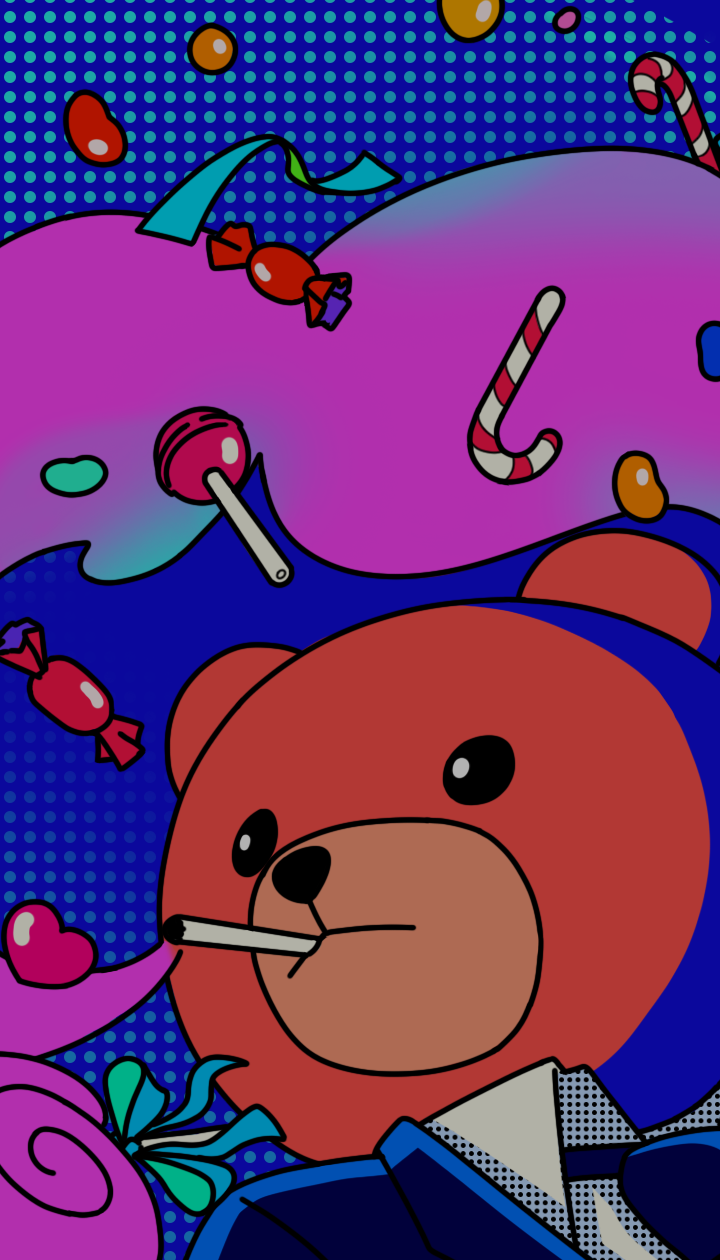
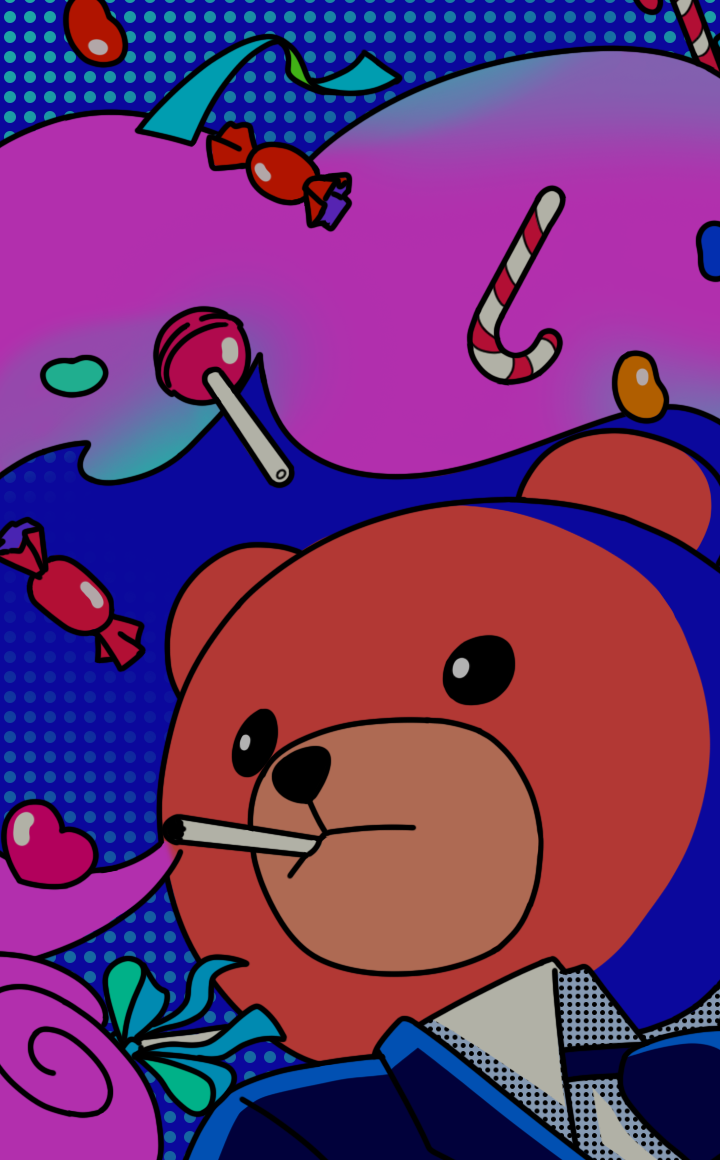
2021.12.24

diff --git a/assets/css/sub.min.css b/assets/css/sub.min.css
@@ -1,2 +1,2 @@
-.inner{max-width:1160px;margin:0 auto;padding:0 110px}.container{display:-webkit-box;display:-ms-flexbox;display:flex;-webkit-box-pack:justify;-ms-flex-pack:justify;justify-content:space-between;-webkit-box-align:center;-ms-flex-align:center;align-items:center;padding:0 125px}.mob-br{display:none}@media screen and (max-width: 1200px){.inner{padding:0 50px}}@media screen and (max-width: 900px){.container{padding:0 100px}}@media screen and (max-width: 720px){.inner{padding:0 40px}.container{-webkit-box-orient:vertical;-webkit-box-direction:normal;-ms-flex-direction:column;flex-direction:column;padding:0}}@media screen and (max-width: 570px){.inner{padding:0 25px}.mob-br{display:block}}@-webkit-keyframes loading{0%{width:0}70%{width:100%;opacity:1}90%{opacity:0;width:100%}100%{opacity:0;width:0}}@keyframes loading{0%{width:0}70%{width:100%;opacity:1}90%{opacity:0;width:100%}100%{opacity:0;width:0}}@-webkit-keyframes loading-motion{0%{height:57px}33%{height:58px}66%{height:60px}100%{height:58px}}@keyframes loading-motion{0%{height:57px}33%{height:58px}66%{height:60px}100%{height:58px}}@-webkit-keyframes loading-move{0%{left:0}70%{left:78%}100%{left:78%}}@keyframes loading-move{0%{left:0}70%{left:78%}100%{left:78%}}@-webkit-keyframes balloon{from{-webkit-transform:translateY(5px);transform:translateY(5px)}to{-webkit-transform:translateY(-5px);transform:translateY(-5px)}}@keyframes balloon{from{-webkit-transform:translateY(5px);transform:translateY(5px)}to{-webkit-transform:translateY(-5px);transform:translateY(-5px)}}@-webkit-keyframes scale-in-center{0%{-webkit-transform:scale(0);transform:scale(0);opacity:1}100%{-webkit-transform:scale(1);transform:scale(1);opacity:1}}@keyframes scale-in-center{0%{-webkit-transform:scale(0);transform:scale(0);opacity:1}100%{-webkit-transform:scale(1);transform:scale(1);opacity:1}}@-webkit-keyframes skill{from{width:0}to{width:graph}}@keyframes skill{from{width:0}to{width:graph}}@-webkit-keyframes quick-1{0%{right:-150px}100%{right:60px}}@keyframes quick-1{0%{right:-150px}100%{right:60px}}@-webkit-keyframes quick-mob-1{0%{bottom:-150px}100%{bottom:50px}}@keyframes quick-mob-1{0%{bottom:-150px}100%{bottom:50px}}@-webkit-keyframes quick-mob-2{0%{bottom:50px}100%{bottom:-150px}}@keyframes quick-mob-2{0%{bottom:50px}100%{bottom:-150px}}@-webkit-keyframes tracking-in-contract{0%{letter-spacing:normal}50%{letter-spacing:0.1em}100%{letter-spacing:normal}}@keyframes tracking-in-contract{0%{letter-spacing:normal}50%{letter-spacing:0.1em}100%{letter-spacing:normal}}@-webkit-keyframes scroll-down{from{bottom:35px}to{bottom:25px}}@keyframes scroll-down{from{bottom:35px}to{bottom:25px}}.loading-box{position:fixed;top:0;right:0;bottom:0;left:0;z-index:5000;background-color:#3f25b2}.loading-box .loading{position:relative;width:250px;height:30px;top:calc(50% - 10px);left:calc(50% - 125px);background-color:rgba(37,236,136,0.2)}.loading-box .loading::before{content:"";position:absolute;background-color:#25ec88;top:0;left:0;height:30px;width:0;z-index:0;opacity:1;-webkit-transform-origin:100% 0;transform-origin:100% 0;-webkit-animation:loading 5s ease-in-out infinite;animation:loading 5s ease-in-out infinite}.loading-box .loading::after{content:"LOADING ...";color:#25ec88;font-weight:200;font-size:24px;position:absolute;width:100%;height:30px;line-height:30px;top:0;left:0;text-align:center}.loading-box .loading .img-area{position:absolute;bottom:110%;left:0;-webkit-animation:loading-move 5s ease-in-out infinite;animation:loading-move 5s ease-in-out infinite}.loading-box .loading .img-area img{width:60px;height:57px;-webkit-animation:loading-motion 1s ease-in-out infinite;animation:loading-motion 1s ease-in-out infinite}.hd{background-color:#1b1b1b;position:fixed;top:0;right:0;left:0;z-index:1000}.hd .hamburger{display:none}.hd .logo{line-height:80px}.hd .logo img{width:100%;display:block}.hd .gnb{display:-webkit-box;display:-ms-flexbox;display:flex}.hd .gnb a{display:inline-block;color:#fff;font-size:18px;font-weight:400}.hd .gnb .dep1{line-height:80px;margin-left:57px}.hd .gnb .dep1:hover>a{text-decoration:underline}.hd .gnb .dep1:hover .dep2{height:150px;padding:8px 0}.hd .gnb .dep1-arrow{position:relative}.hd .gnb .dep1-arrow>a::after{content:'▼';color:#fff;font-size:12px;margin-left:9px}.hd .gnb .dep1 .dep2{height:0px;overflow:hidden;position:absolute;background-color:#3b21b0;top:100%;left:50%;-webkit-transform:translateX(-50%);transform:translateX(-50%);width:208px;text-align:center;line-height:45px;-webkit-transition:all 0.3s;transition:all 0.3s}.hd .gnb .dep1 .dep2 a{display:block;font-size:13px;-webkit-transition:all 0.3s ease;transition:all 0.3s ease}.hd .gnb .dep1 .dep2 a:hover{background-color:#fff;color:#3b21b0}@media screen and (max-width: 900px){.hd .logo{margin:0 auto}.hd .logo a img{width:100%;padding:21px 0;line-height:80px}.hd .gnb{background-color:rgba(59,33,176,0.9);position:fixed;top:-100%;right:0;left:0;display:block;text-align:center;padding-top:100px;-webkit-transition:all 0.9s;transition:all 0.9s;opacity:0}.hd .gnb a{font-size:36px;font-weight:500}.hd .gnb .dep1{line-height:100px;margin-left:0}.hd .gnb .dep1:hover .dep2{height:0;padding:0}.hd .gnb .dep1 .dep2{position:relative;background-color:transparent;width:auto;line-height:100px}.hd .gnb .dep1 .dep2 a{font-size:30px}.hd .gnb .dep1 .dep2 a:hover{background:transparent;color:#fff;text-decoration:underline}.hd .gnb .dep1 .dep2.active{height:316px}.hd .hamburger{display:block;position:absolute;top:50%;right:3%;z-index:3;-webkit-transform:translateY(-50%);transform:translateY(-50%);width:45px;height:45px;cursor:pointer}.hd .hamburger li{position:absolute;left:5%;-webkit-transform:translateY(-50%);transform:translateY(-50%);width:90%;height:7px;background:#fff;border-radius:20px;-webkit-transition:.9s;transition:.9s;opacity:1}.hd .hamburger .line1{top:20%}.hd .hamburger .line2,.hd .hamburger .line3{top:50%}.hd .hamburger .line4{top:80%}.hd .hamburger.active .line1{top:-20%;opacity:0}.hd .hamburger.active .line2{-webkit-transform:translateY(-50%) rotate(45deg);transform:translateY(-50%) rotate(45deg)}.hd .hamburger.active .line3{-webkit-transform:translateY(-50%) rotate(-45deg);transform:translateY(-50%) rotate(-45deg)}.hd .hamburger.active .line4{top:120%;opacity:0}.hd .hamburger.active ~ .gnb{top:0;bottom:0;opacity:1}}.kv{position:relative;background-repeat:no-repeat;background-position:center top;background-size:contain;width:100%;padding-top:45.5%;margin-top:80px}.kv .tit{position:absolute;font-family:'ChunkFive-Regular';font-size:100px;color:#fff;bottom:110px;left:109px}.kv .scroll-down{position:absolute;bottom:30px;left:119px;-webkit-animation:scroll-down 0.7s ease-in infinite alternate;animation:scroll-down 0.7s ease-in infinite alternate}.web .kv{background-image:url(../images/kv-web.png)}.web .content{margin:100px 0}.web .content [class^="cont-"]{background-color:#1b1b1b;display:-webkit-box;display:-ms-flexbox;display:flex;-webkit-box-align:end;-ms-flex-align:end;align-items:flex-end;padding:22px;color:#fff;font-family:'KOTRA_GOTHIC'}.web .content [class^="cont-"] .img-area{width:50%}.web .content [class^="cont-"] .img-area img{display:block;width:100%}.web .content [class^="cont-"] .txt-area .tit{font-size:18px}.web .content [class^="cont-"] .txt-area .sub-tit{font-size:24px}.web .content [class^="cont-"] .txt-area .desc{font-size:18px;margin-top:24px}.web .content [class^="cont-"] .btn{display:inline-block;background-color:#25ec88;color:black;width:165px;line-height:51px;font-family:'KOTRA_GOTHIC';font-size:18px;text-align:center;margin-top:24px}.web .content .cont-right{margin:100px auto;margin-left:20%;-webkit-box-pack:left;-ms-flex-pack:left;justify-content:left}.web .content .cont-right .txt-area{margin-left:22px}.web .content .cont-left{margin:100px auto;margin-right:20%;-webkit-box-pack:right;-ms-flex-pack:right;justify-content:right}.web .content .cont-left .txt-area{text-align:right;margin-right:22px}.character .kv{background-image:url(../images/kv-character.png)}.character .content{margin:100px 0 76px}.character .content .inner{padding:0}.character .content .content-list{display:-webkit-box;display:-ms-flexbox;display:flex;-ms-flex-wrap:wrap;flex-wrap:wrap;margin:0 -12px}.character .content .content-list .list-item{-webkit-box-flex:0;-ms-flex:0 1 calc((100% / 3) - 24px);flex:0 1 calc((100% / 3) - 24px);text-align:center;margin:0 12px 24px}.character .content .content-list .list-item .img-area{position:relative;overflow:hidden}.character .content .content-list .list-item .img-area img{display:block;width:100%;-webkit-transition:all 1s;transition:all 1s}.character .content .content-list .list-item .img-area::after{position:absolute;content:"";display:inline-block;background-color:#fff;top:0;left:0;width:100%;height:0;border-bottom-left-radius:50%;border-bottom-right-radius:50%;opacity:0;-webkit-transition:all 1s;transition:all 1s}.character .content .content-list .list-item .txt-area{background-color:#1b1b1b;color:#fff;font-family:'KOTRA_GOTHIC'}.character .content .content-list .list-item .txt-area .tit{font-size:24px;padding-top:15px}.character .content .content-list .list-item .txt-area .desc{font-size:18px;padding-bottom:15px}.character .content .content-list .list-item:hover .img-area img{-webkit-transform:scale(1.1);transform:scale(1.1)}.character .content .content-list .list-item:hover .img-area::after{height:200%;opacity:.3}.graphic .kv{background-image:url(../images/kv-graphic.png)}.graphic .content{text-align:center;margin:100px 0 76px}.graphic .content .inner{padding:0}.graphic .content .button{margin-bottom:24px}.graphic .content .button .btn{font-family:'ChunkFive-Regular';font-size:24px;margin:0 12px;-webkit-transition:all 0.3s;transition:all 0.3s}.graphic .content .button .btn:hover{-webkit-transform:scale(1.1);transform:scale(1.1)}.graphic .content .portfolio-graphic{display:-webkit-box;display:-ms-flexbox;display:flex;-ms-flex-wrap:wrap;flex-wrap:wrap;margin:0 -12px}.graphic .content .portfolio-graphic .mix{-webkit-box-flex:0;-ms-flex:0 1 calc((100% / 3) - 24px);flex:0 1 calc((100% / 3) - 24px);margin:0 12px 24px;overflow:hidden}.graphic .content .portfolio-graphic .mix:hover img{-webkit-transform:scale(1.1);transform:scale(1.1)}.graphic .content .portfolio-graphic .mix img{display:block;width:100%;-webkit-transition:all 1s;transition:all 1s}.mfp-arrow:after{border-right:none;border-left:none;width:20px;background-image:url(../images/mfp-arrow.png);background-size:cover;background-repeat:no-repeat;background-position:center;padding-top:10%}.mfp-arrow:before{border-right:none;border-left:none}.mfp-arrow-left:after{-webkit-transform:rotate(180deg);transform:rotate(180deg)}@media screen and (max-width: 1200px){.kv .tit{font-size:80px;left:6.667vw}.kv .scroll-down{left:6.667vw}.web .content .cont-right{margin-left:5%}.web .content .cont-left{margin-right:5%}.character .content .content-list{margin:0}.character .content .content-list .list-item{-ms-flex-preferred-size:calc((100% / 2) - 24px);flex-basis:calc((100% / 2) - 24px)}.graphic .content .portfolio-graphic{margin:0}.graphic .content .portfolio-graphic .mix{-ms-flex-preferred-size:calc((100% /2) - 24px);flex-basis:calc((100% /2) - 24px)}}@media screen and (max-width: 900px){.kv .tit{font-size:8vw;bottom:100px}.kv .scroll-down img{width:90%}.web .content [class^="cont-"]{-webkit-box-orient:vertical;-webkit-box-direction:normal;-ms-flex-direction:column;flex-direction:column}.web .content [class^="cont-"] .txt-area{margin-top:22px}.web .content [class^="cont-"] .img-area{width:100%}.web .content .cont-right{-webkit-box-align:start;-ms-flex-align:start;align-items:flex-start;margin-left:10%}.web .content .cont-right .txt-area{margin-left:0}.web .content .cont-left{margin-right:10%;-webkit-box-orient:vertical;-webkit-box-direction:reverse;-ms-flex-direction:column-reverse;flex-direction:column-reverse}.web .content .cont-left .txt-area{margin-right:0}.character .content .content-list .list-item{-ms-flex-preferred-size:calc(100% - 24px);flex-basis:calc(100% - 24px)}.graphic .content .portfolio-graphic .mix{-ms-flex-preferred-size:calc(100% - 24px);flex-basis:calc(100% - 24px)}}@media screen and (max-width: 720px){.kv{background-size:cover;padding-top:175%}.kv .tit{font-size:9.333vw}.kv .scroll-down img{width:80%}.web .kv{background-image:url(../images/kv-web-mob.png)}.character .kv{background-image:url(../images/kv-character-mob.png)}.graphic .kv{background-image:url(../images/kv-graphic-mob.png)}}.ft{background-color:#1b1b1b;font-size:14px;color:#fff;line-height:80px}@media screen and (max-width: 720px){.ft{line-height:40px;padding:12px 0}}.quick [class^='quick-']{background-repeat:no-repeat;background-position:center;background-size:cover;position:fixed;width:55px;height:52px}.quick [class^='quick-'] .img-box{display:none;position:relative}.quick [class^='quick-'] .img-box img{position:absolute;top:-35px;left:50%;-webkit-transform:translateX(-50%);transform:translateX(-50%)}.quick [class^='quick-']:hover .img-box{display:block}.quick .quick-green{background-image:url(../images/quick-green.png);bottom:300px;-webkit-animation:quick-1 0.8s cubic-bezier(0, -0.04, 0.41, 0.95) both;animation:quick-1 0.8s cubic-bezier(0, -0.04, 0.41, 0.95) both}.quick .quick-green .img-box img{width:59px}.quick .quick-green:hover{background-image:url(../images/quick-green-hover.png)}.quick .quick-yellow{background-image:url(../images/quick-yellow.png);bottom:200px;-webkit-animation:quick-1 0.8s cubic-bezier(0, -0.04, 0.41, 0.95) 0.2s both;animation:quick-1 0.8s cubic-bezier(0, -0.04, 0.41, 0.95) 0.2s both}.quick .quick-yellow .img-box img{width:121px}.quick .quick-yellow:hover{background-image:url(../images/quick-yellow-hover.png)}.quick .quick-pink{background-image:url(../images/quick-pink.png);bottom:100px;-webkit-animation:quick-1 0.8s cubic-bezier(0, -0.04, 0.41, 0.95) 0.4s both;animation:quick-1 0.8s cubic-bezier(0, -0.04, 0.41, 0.95) 0.4s both}.quick .quick-pink .img-box img{width:100px}.quick .quick-pink:hover{background-image:url(../images/quick-pink-hover.png)}@media screen and (max-width: 720px){.quick [class^='quick-']{bottom:50px;left:50%;-webkit-transform:translateX(-50%);transform:translateX(-50%)}.quick .quick-green{-webkit-transform:translateX(-250%);transform:translateX(-250%);-webkit-animation:quick-mob-1 0.6s cubic-bezier(0, -0.04, 0.41, 0.95) both;animation:quick-mob-1 0.6s cubic-bezier(0, -0.04, 0.41, 0.95) both;left:47%}.quick .quick-yellow{-webkit-animation:quick-mob-1 0.6s cubic-bezier(0, -0.04, 0.41, 0.95) 0.2s both;animation:quick-mob-1 0.6s cubic-bezier(0, -0.04, 0.41, 0.95) 0.2s both}.quick .quick-pink{-webkit-transform:translateX(150%);transform:translateX(150%);-webkit-animation:quick-mob-1 0.6s cubic-bezier(0, -0.04, 0.41, 0.95) 0.4s both;animation:quick-mob-1 0.6s cubic-bezier(0, -0.04, 0.41, 0.95) 0.4s both;left:53%}.quick.hide .quick-green{-webkit-animation:quick-mob-2 0.6s ease-in-out 0.4s both;animation:quick-mob-2 0.6s ease-in-out 0.4s both}.quick.hide .quick-yellow{-webkit-animation:quick-mob-2 0.6s ease-in-out 0.2s both;animation:quick-mob-2 0.6s ease-in-out 0.2s both}.quick.hide .quick-pink{-webkit-animation:quick-mob-2 0.6s ease-in-out both;animation:quick-mob-2 0.6s ease-in-out both}}
+.inner{max-width:1160px;margin:0 auto;padding:0 110px}.container{display:-webkit-box;display:-ms-flexbox;display:flex;-webkit-box-pack:justify;-ms-flex-pack:justify;justify-content:space-between;-webkit-box-align:center;-ms-flex-align:center;align-items:center;padding:0 125px}.mob-br{display:none}@media screen and (max-width: 1200px){.inner{padding:0 50px}}@media screen and (max-width: 900px){.container{padding:0 100px}}@media screen and (max-width: 720px){.inner{padding:0 40px}.container{-webkit-box-orient:vertical;-webkit-box-direction:normal;-ms-flex-direction:column;flex-direction:column;padding:0}}@media screen and (max-width: 570px){.inner{padding:0 25px}.mob-br{display:block}}@-webkit-keyframes loading{0%{width:0}70%{width:100%;opacity:1}90%{opacity:0;width:100%}100%{opacity:0;width:0}}@keyframes loading{0%{width:0}70%{width:100%;opacity:1}90%{opacity:0;width:100%}100%{opacity:0;width:0}}@-webkit-keyframes loading-motion{0%{height:57px}33%{height:58px}66%{height:60px}100%{height:58px}}@keyframes loading-motion{0%{height:57px}33%{height:58px}66%{height:60px}100%{height:58px}}@-webkit-keyframes loading-move{0%{left:0}70%{left:78%}100%{left:78%}}@keyframes loading-move{0%{left:0}70%{left:78%}100%{left:78%}}@-webkit-keyframes balloon{from{-webkit-transform:translateY(5px);transform:translateY(5px)}to{-webkit-transform:translateY(-5px);transform:translateY(-5px)}}@keyframes balloon{from{-webkit-transform:translateY(5px);transform:translateY(5px)}to{-webkit-transform:translateY(-5px);transform:translateY(-5px)}}@-webkit-keyframes scale-in-center{0%{-webkit-transform:scale(0);transform:scale(0);opacity:1}100%{-webkit-transform:scale(1);transform:scale(1);opacity:1}}@keyframes scale-in-center{0%{-webkit-transform:scale(0);transform:scale(0);opacity:1}100%{-webkit-transform:scale(1);transform:scale(1);opacity:1}}@-webkit-keyframes skill{from{width:0}to{width:graph}}@keyframes skill{from{width:0}to{width:graph}}@-webkit-keyframes quick-1{0%{right:-150px}100%{right:60px}}@keyframes quick-1{0%{right:-150px}100%{right:60px}}@-webkit-keyframes quick-mob-1{0%{bottom:-150px}100%{bottom:50px}}@keyframes quick-mob-1{0%{bottom:-150px}100%{bottom:50px}}@-webkit-keyframes quick-mob-2{0%{bottom:50px}100%{bottom:-150px}}@keyframes quick-mob-2{0%{bottom:50px}100%{bottom:-150px}}@-webkit-keyframes tracking-in-contract{0%{letter-spacing:normal}50%{letter-spacing:0.1em}100%{letter-spacing:normal}}@keyframes tracking-in-contract{0%{letter-spacing:normal}50%{letter-spacing:0.1em}100%{letter-spacing:normal}}@-webkit-keyframes scroll-down{from{bottom:35px}to{bottom:25px}}@keyframes scroll-down{from{bottom:35px}to{bottom:25px}}.loading-box{position:fixed;top:0;right:0;bottom:0;left:0;z-index:5000;background-color:#3f25b2}.loading-box .loading{position:relative;width:250px;height:30px;top:calc(50% - 10px);left:calc(50% - 125px);background-color:rgba(37,236,136,0.2)}.loading-box .loading::before{content:"";position:absolute;background-color:#25ec88;top:0;left:0;height:30px;width:0;z-index:0;opacity:1;-webkit-transform-origin:100% 0;transform-origin:100% 0;-webkit-animation:loading 5s ease-in-out infinite;animation:loading 5s ease-in-out infinite}.loading-box .loading::after{content:"LOADING ...";color:#25ec88;font-weight:200;font-size:24px;position:absolute;width:100%;height:30px;line-height:30px;top:0;left:0;text-align:center}.loading-box .loading .img-area{position:absolute;bottom:110%;left:0;-webkit-animation:loading-move 5s ease-in-out infinite;animation:loading-move 5s ease-in-out infinite}.loading-box .loading .img-area img{width:60px;height:57px;-webkit-animation:loading-motion 1s ease-in-out infinite;animation:loading-motion 1s ease-in-out infinite}.hd{background-color:#1b1b1b;position:fixed;top:0;right:0;left:0;z-index:1000}.hd .hamburger{display:none}.hd .logo{line-height:80px}.hd .logo img{width:100%;display:block}.hd .gnb{display:-webkit-box;display:-ms-flexbox;display:flex}.hd .gnb a{display:inline-block;color:#fff;font-size:18px;font-weight:400}.hd .gnb .dep1{line-height:80px;margin-left:57px}.hd .gnb .dep1:hover>a{text-decoration:underline}.hd .gnb .dep1:hover .dep2{height:150px;padding:8px 0}.hd .gnb .dep1-arrow{position:relative}.hd .gnb .dep1-arrow>a::after{content:'▼';color:#fff;font-size:12px;margin-left:9px}.hd .gnb .dep1 .dep2{height:0px;overflow:hidden;position:absolute;background-color:#3b21b0;top:100%;left:50%;-webkit-transform:translateX(-50%);transform:translateX(-50%);width:208px;text-align:center;line-height:45px;-webkit-transition:all 0.3s;transition:all 0.3s}.hd .gnb .dep1 .dep2 a{display:block;font-size:13px;-webkit-transition:all 0.3s ease;transition:all 0.3s ease}.hd .gnb .dep1 .dep2 a:hover{background-color:#fff;color:#3b21b0}@media screen and (max-width: 900px){.hd .logo{margin:0 auto}.hd .logo a img{width:100%;padding:21px 0;line-height:80px}.hd .gnb{background-color:rgba(59,33,176,0.9);position:fixed;top:-100%;right:0;left:0;display:block;text-align:center;padding-top:100px;-webkit-transition:all 0.9s;transition:all 0.9s;opacity:0}.hd .gnb a{font-size:36px;font-weight:500}.hd .gnb .dep1{line-height:100px;margin-left:0}.hd .gnb .dep1:hover .dep2{height:0;padding:0}.hd .gnb .dep1 .dep2{position:relative;background-color:transparent;width:auto;line-height:100px}.hd .gnb .dep1 .dep2 a{font-size:30px}.hd .gnb .dep1 .dep2 a:hover{background:transparent;color:#fff;text-decoration:underline}.hd .gnb .dep1 .dep2.active{height:316px}.hd .hamburger{display:block;position:absolute;top:50%;right:3%;z-index:3;-webkit-transform:translateY(-50%);transform:translateY(-50%);width:45px;height:45px;cursor:pointer}.hd .hamburger li{position:absolute;left:5%;-webkit-transform:translateY(-50%);transform:translateY(-50%);width:90%;height:7px;background:#fff;border-radius:20px;-webkit-transition:.9s;transition:.9s;opacity:1}.hd .hamburger .line1{top:20%}.hd .hamburger .line2,.hd .hamburger .line3{top:50%}.hd .hamburger .line4{top:80%}.hd .hamburger.active .line1{top:-20%;opacity:0}.hd .hamburger.active .line2{-webkit-transform:translateY(-50%) rotate(45deg);transform:translateY(-50%) rotate(45deg)}.hd .hamburger.active .line3{-webkit-transform:translateY(-50%) rotate(-45deg);transform:translateY(-50%) rotate(-45deg)}.hd .hamburger.active .line4{top:120%;opacity:0}.hd .hamburger.active ~ .gnb{top:0;bottom:0;opacity:1}}.kv{position:relative;background-repeat:no-repeat;background-position:center top;background-size:contain;width:100%;padding-top:45.5%;margin-top:80px}.kv .tit{position:absolute;font-family:'ChunkFive-Regular';font-size:100px;color:#fff;bottom:110px;left:109px}.kv .scroll-down{position:absolute;bottom:30px;left:119px;-webkit-animation:scroll-down 0.7s ease-in infinite alternate;animation:scroll-down 0.7s ease-in infinite alternate}.web .kv{background-image:url(../images/kv-web.png)}.web .content{margin:100px 0}.web .content [class^="cont-"]{background-color:#1b1b1b;display:-webkit-box;display:-ms-flexbox;display:flex;-webkit-box-align:end;-ms-flex-align:end;align-items:flex-end;padding:22px;color:#fff;font-family:'KOTRA_GOTHIC'}.web .content [class^="cont-"] .img-area{width:50%}.web .content [class^="cont-"] .img-area img{display:block;width:100%}.web .content [class^="cont-"] .txt-area .tit{font-size:18px}.web .content [class^="cont-"] .txt-area .sub-tit{font-size:24px}.web .content [class^="cont-"] .txt-area .desc{font-size:18px;margin-top:24px}.web .content [class^="cont-"] .btn{display:inline-block;background-color:#25ec88;color:black;width:165px;line-height:51px;font-family:'KOTRA_GOTHIC';font-size:18px;text-align:center;margin-top:24px}.web .content .cont-right{margin:100px auto;margin-left:20%;-webkit-box-pack:left;-ms-flex-pack:left;justify-content:left}.web .content .cont-right .txt-area{margin-left:22px}.web .content .cont-left{margin:100px auto;margin-right:20%;-webkit-box-pack:right;-ms-flex-pack:right;justify-content:right}.web .content .cont-left .txt-area{text-align:right;margin-right:22px}.character .kv{background-image:url(../images/kv-character.png)}.character .content{margin:100px 0 76px}.character .content .inner{padding:0}.character .content .content-list{display:-webkit-box;display:-ms-flexbox;display:flex;-ms-flex-wrap:wrap;flex-wrap:wrap;margin:0 -12px}.character .content .content-list .list-item{-webkit-box-flex:0;-ms-flex:0 1 calc((100% / 3) - 24px);flex:0 1 calc((100% / 3) - 24px);text-align:center;margin:0 12px 24px}.character .content .content-list .list-item .img-area{position:relative;overflow:hidden}.character .content .content-list .list-item .img-area img{display:block;width:100%;-webkit-transition:all 1s;transition:all 1s}.character .content .content-list .list-item .img-area::after{position:absolute;content:"";display:inline-block;background-color:#fff;top:0;left:0;width:100%;height:0;border-bottom-left-radius:50%;border-bottom-right-radius:50%;opacity:0;-webkit-transition:all 1s;transition:all 1s}.character .content .content-list .list-item .txt-area{background-color:#1b1b1b;color:#fff;font-family:'KOTRA_GOTHIC'}.character .content .content-list .list-item .txt-area .tit{font-size:24px;padding-top:15px}.character .content .content-list .list-item .txt-area .desc{font-size:18px;padding-bottom:15px}.character .content .content-list .list-item:hover .img-area img{-webkit-transform:scale(1.1);transform:scale(1.1)}.character .content .content-list .list-item:hover .img-area::after{height:200%;opacity:.3}.graphic .kv{background-image:url(../images/kv-graphic.png)}.graphic .content{text-align:center;margin:100px 0 76px}.graphic .content .inner{padding:0}.graphic .content .button{margin-bottom:24px}.graphic .content .button .btn{font-family:'ChunkFive-Regular';font-size:24px;margin:0 12px;-webkit-transition:all 0.3s;transition:all 0.3s}.graphic .content .button .btn:hover{-webkit-transform:scale(1.1);transform:scale(1.1)}.graphic .content .portfolio-graphic{display:-webkit-box;display:-ms-flexbox;display:flex;-ms-flex-wrap:wrap;flex-wrap:wrap;margin:0 -12px}.graphic .content .portfolio-graphic .mix{-webkit-box-flex:0;-ms-flex:0 1 calc((100% / 3) - 24px);flex:0 1 calc((100% / 3) - 24px);margin:0 12px 24px;overflow:hidden}.graphic .content .portfolio-graphic .mix:hover img{-webkit-transform:scale(1.1);transform:scale(1.1)}.graphic .content .portfolio-graphic .mix img{display:block;width:100%;-webkit-transition:all 1s;transition:all 1s}.mfp-arrow:after{border-right:none;border-left:none;width:20px;background-image:url(../images/mfp-arrow.png);background-size:cover;background-repeat:no-repeat;background-position:center;padding-top:10%}.mfp-arrow:before{border-right:none;border-left:none}.mfp-arrow-left:after{-webkit-transform:rotate(180deg);transform:rotate(180deg)}@media screen and (max-width: 1200px){.kv .tit{font-size:80px;left:6.667vw}.kv .scroll-down{left:6.667vw}.web .content .cont-right{margin-left:5%}.web .content .cont-left{margin-right:5%}.character .content .content-list{margin:0}.character .content .content-list .list-item{-ms-flex-preferred-size:calc((100% / 2) - 24px);flex-basis:calc((100% / 2) - 24px)}.graphic .content .portfolio-graphic{margin:0}.graphic .content .portfolio-graphic .mix{-ms-flex-preferred-size:calc((100% /2) - 24px);flex-basis:calc((100% /2) - 24px)}}@media screen and (max-width: 900px){.kv .tit{font-size:8vw;bottom:100px}.kv .scroll-down img{width:90%}.web .content [class^="cont-"]{-webkit-box-orient:vertical;-webkit-box-direction:normal;-ms-flex-direction:column;flex-direction:column}.web .content [class^="cont-"] .txt-area{margin-top:22px}.web .content [class^="cont-"] .img-area{width:100%}.web .content .cont-right{-webkit-box-align:start;-ms-flex-align:start;align-items:flex-start;margin-left:10%}.web .content .cont-right .txt-area{margin-left:0}.web .content .cont-left{margin-right:10%;-webkit-box-orient:vertical;-webkit-box-direction:reverse;-ms-flex-direction:column-reverse;flex-direction:column-reverse}.web .content .cont-left .txt-area{margin-right:0}.character .content .content-list .list-item{-ms-flex-preferred-size:calc(100% - 24px);flex-basis:calc(100% - 24px)}.graphic .content .portfolio-graphic .mix{-ms-flex-preferred-size:calc(100% - 24px);flex-basis:calc(100% - 24px)}}@media screen and (max-width: 720px){.kv{background-size:cover;padding-top:161.1%}.kv .tit{font-size:9.333vw}.kv .scroll-down img{width:80%}.web .kv{background-image:url(../images/kv-web-mob.png)}.character .kv{background-image:url(../images/kv-character-mob.png)}.graphic .kv{background-image:url(../images/kv-graphic-mob.png)}}.ft{background-color:#1b1b1b;font-size:14px;color:#fff;line-height:80px}@media screen and (max-width: 720px){.ft{line-height:40px;padding:12px 0}}.quick [class^='quick-']{background-repeat:no-repeat;background-position:center;background-size:cover;position:fixed;width:55px;height:52px}.quick [class^='quick-'] .img-box{display:none;position:relative}.quick [class^='quick-'] .img-box img{position:absolute;top:-35px;left:50%;-webkit-transform:translateX(-50%);transform:translateX(-50%)}.quick [class^='quick-']:hover .img-box{display:block}.quick .quick-green{background-image:url(../images/quick-green.png);bottom:300px;-webkit-animation:quick-1 0.8s cubic-bezier(0, -0.04, 0.41, 0.95) both;animation:quick-1 0.8s cubic-bezier(0, -0.04, 0.41, 0.95) both}.quick .quick-green .img-box img{width:59px}.quick .quick-green:hover{background-image:url(../images/quick-green-hover.png)}.quick .quick-yellow{background-image:url(../images/quick-yellow.png);bottom:200px;-webkit-animation:quick-1 0.8s cubic-bezier(0, -0.04, 0.41, 0.95) 0.2s both;animation:quick-1 0.8s cubic-bezier(0, -0.04, 0.41, 0.95) 0.2s both}.quick .quick-yellow .img-box img{width:121px}.quick .quick-yellow:hover{background-image:url(../images/quick-yellow-hover.png)}.quick .quick-pink{background-image:url(../images/quick-pink.png);bottom:100px;-webkit-animation:quick-1 0.8s cubic-bezier(0, -0.04, 0.41, 0.95) 0.4s both;animation:quick-1 0.8s cubic-bezier(0, -0.04, 0.41, 0.95) 0.4s both}.quick .quick-pink .img-box img{width:100px}.quick .quick-pink:hover{background-image:url(../images/quick-pink-hover.png)}@media screen and (max-width: 720px){.quick [class^='quick-']{bottom:50px;left:50%;-webkit-transform:translateX(-50%);transform:translateX(-50%)}.quick .quick-green{-webkit-transform:translateX(-250%);transform:translateX(-250%);-webkit-animation:quick-mob-1 0.6s cubic-bezier(0, -0.04, 0.41, 0.95) both;animation:quick-mob-1 0.6s cubic-bezier(0, -0.04, 0.41, 0.95) both;left:47%}.quick .quick-yellow{-webkit-animation:quick-mob-1 0.6s cubic-bezier(0, -0.04, 0.41, 0.95) 0.2s both;animation:quick-mob-1 0.6s cubic-bezier(0, -0.04, 0.41, 0.95) 0.2s both}.quick .quick-pink{-webkit-transform:translateX(150%);transform:translateX(150%);-webkit-animation:quick-mob-1 0.6s cubic-bezier(0, -0.04, 0.41, 0.95) 0.4s both;animation:quick-mob-1 0.6s cubic-bezier(0, -0.04, 0.41, 0.95) 0.4s both;left:53%}.quick.hide .quick-green{-webkit-animation:quick-mob-2 0.6s ease-in-out 0.4s both;animation:quick-mob-2 0.6s ease-in-out 0.4s both}.quick.hide .quick-yellow{-webkit-animation:quick-mob-2 0.6s ease-in-out 0.2s both;animation:quick-mob-2 0.6s ease-in-out 0.2s both}.quick.hide .quick-pink{-webkit-animation:quick-mob-2 0.6s ease-in-out both;animation:quick-mob-2 0.6s ease-in-out both}}
 /*# sourceMappingURL=sub.min.css.map */

diff --git a/index.html b/index.html
@@ -288,22 +288,23 @@
   </footer>
 
   <!-- quick -->
-  <a class="quick-green" href="web.html">
-    <div class="img-box">
-      <img src="./assets/images/quick-green-hover-txt.png" alt="">
-    </div>
-  </a>
-  <a class="quick-yellow" href="character.html">
-    <div class="img-box">
-      <img src="./assets/images/quick-yellow-hover-txt.png" alt="">
-    </div>
-  </a>
-  <a class="quick-pink" href="graphic.html">
-    <div class="img-box">
-      <img src="./assets/images/quick-pink-hover-txt.png" alt="">
-    </div>
-  </a>
+  <div class="quick">
+    <a class="quick-green" href="web.html">
+      <div class="img-box">
+        <img src="./assets/images/quick-green-hover-txt.png" alt="">
+      </div>
+    </a>
+    <a class="quick-yellow" href="character.html">
+      <div class="img-box">
+        <img src="./assets/images/quick-yellow-hover-txt.png" alt="">
+      </div>
+    </a>
+    <a class="quick-pink" href="graphic.html">
+      <div class="img-box">
+        <img src="./assets/images/quick-pink-hover-txt.png" alt="">
+      </div>
+    </a>
+  </div>
   <!-- //quick -->
-
 </body>
 </html>

diff --git a/assets/css/sub.css b/assets/css/sub.css
@@ -273,7 +273,7 @@
   .character .content .content-list .list-item { -ms-flex-preferred-size: calc(100% - 24px); flex-basis: calc(100% - 24px); }
   .graphic .content .portfolio-graphic .mix { -ms-flex-preferred-size: calc(100% - 24px); flex-basis: calc(100% - 24px); } }
 
-@media screen and (max-width: 720px) { .kv { background-size: cover; padding-top: 175%; }
+@media screen and (max-width: 720px) { .kv { background-size: cover; padding-top: 161.1%; }
   .kv .tit { font-size: 9.333vw; }
   .kv .scroll-down img { width: 80%; }
   .web .kv { background-image: url(../images/kv-web-mob.png); }

diff --git a/assets/scss/_sub.scss b/assets/scss/_sub.scss
@@ -392,7 +392,7 @@
 @include tablet-720 {
   .kv {
     background-size: cover;
-    padding-top: 175%;
+    padding-top: 161.1%;
 
     .tit {
       font-size: 9.333vw;

diff --git a/assets/js/script.js b/assets/js/script.js
@@ -36,7 +36,4 @@ $(document).ready(function(){
   $('.dep1-arrow').click(function(){
     $('.dep2').toggleClass('active');
   }); 
-
-
-  
 })
